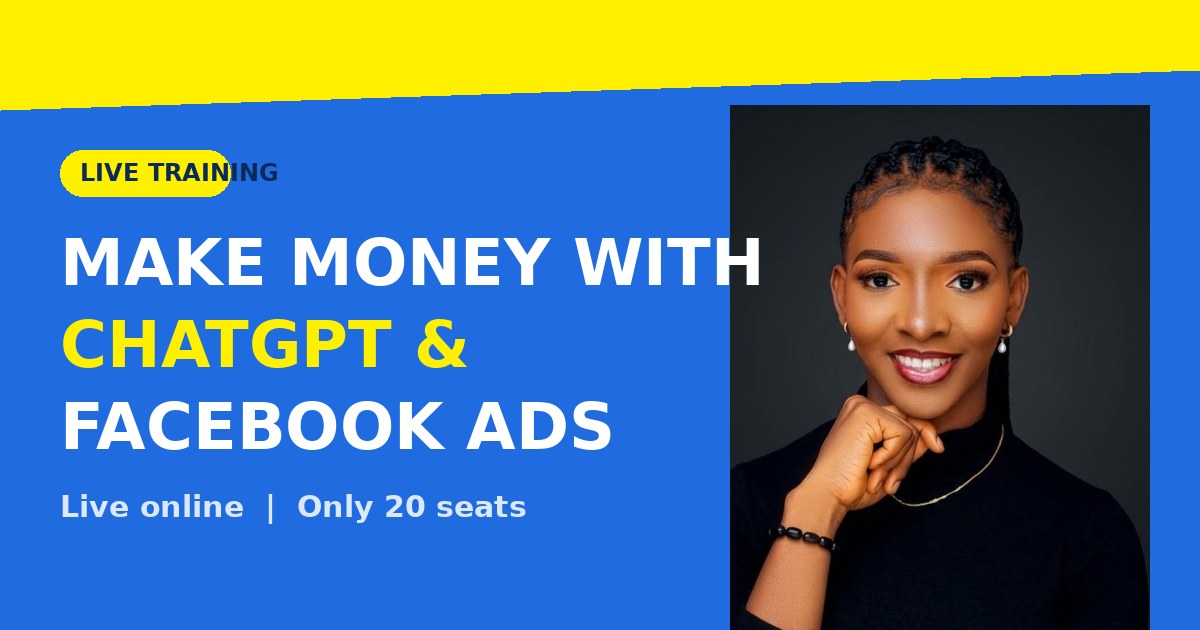
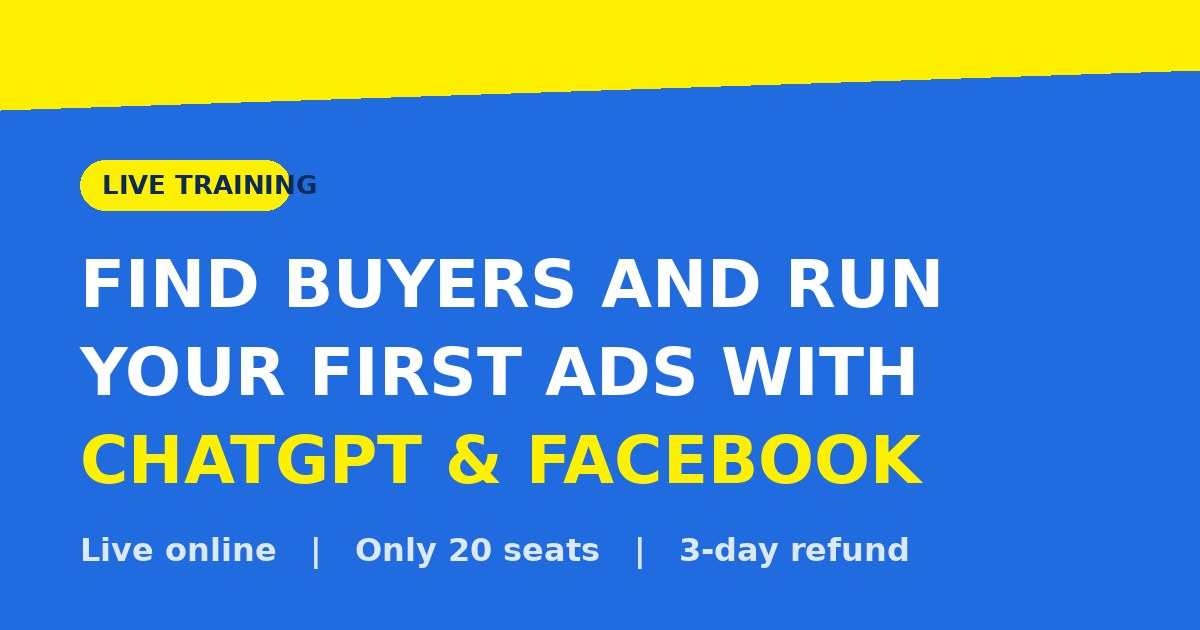
Add files via upload

diff --git a/index.html b/index.html
@@ -219,6 +219,13 @@ footer a{color:#cfe0ff}
 .refundbox{border:2px dashed var(--blue);border-radius:16px;padding:14px 16px;margin-top:16px;text-align:left;font-size:14.5px;color:var(--ink);background:#f7faff}
 .refundbox b{color:var(--blue)}
 .trustline{font-size:13.5px;color:var(--muted);margin:14px 0 0}
+
+.chips{display:flex;flex-wrap:wrap;justify-content:center;gap:10px;margin:26px 0 4px}
+.chips span{background:#fff;border:2px solid var(--navy);color:var(--navy);font-weight:800;font-size:13.5px;letter-spacing:.02em;padding:9px 16px;border-radius:999px;box-shadow:4px 4px 0 var(--yellow);font-family:"Plus Jakarta Sans",Inter,sans-serif}
+.factpanel{display:grid;grid-template-columns:1fr 1fr;gap:14px;max-width:460px;margin:0 auto}
+.fact{background:var(--navy);color:#fff;border-radius:20px;padding:22px 16px;text-align:center;box-shadow:6px 6px 0 var(--yellow)}
+.fact b{display:block;font-family:"Plus Jakarta Sans",Inter,sans-serif;font-weight:800;font-size:clamp(26px,7vw,34px);line-height:1.1;color:var(--yellow)}
+.fact span{display:block;font-size:14px;margin-top:6px;color:#dbe6ff;line-height:1.3}
 .hide{display:none!important}
 .todo{background:#fff3b0;color:#0B2A5B!important;outline:1px dashed #b58900;padding:2px 6px;border-radius:4px}
 </style>
@@ -233,12 +240,7 @@ footer a{color:#cfe0ff}
     <p class="small">In this live training, I will teach you ...</p>
     <h1>How to find buyers and get your first <span class="hl">$1,000</span> in sales using <span class="bl">ChatGPT</span> and <span class="bl">Facebook Ads</span></h1>
     <p class="sub">You don't need to be a tech expert. You don't need a shop. You don't need thousands of followers. You need a clear offer, the right audience and a method you can follow.</p>
-    <p class="watch">Watch this video to the end to see how</p>
-    <div class="video" id="video" role="button" aria-label="Play video">
-      <img id="poster" class="hide" alt="">
-      <div class="ph" id="vph">Add your video poster image (img/poster.jpg) and YouTube link in CONFIG</div>
-      <div class="play"></div>
-    </div>
+    <div class="chips"><span>Live session</span><span>Pay in ₦ or $</span><span>Beginner friendly</span></div>
     <div class="cta-row"><a class="cta" data-cta href="#">Show me how to get started</a></div>
     <p class="trustline" id="capTxt"></p>
   </div>
@@ -317,10 +319,11 @@ footer a{color:#cfe0ff}
 <section class="softsec intro">
   <div class="wrap">
     <h2 class="title">Introducing the<br><span class="hl">Live Ads Training</span></h2>
-    <div class="portrait">
-      <img id="portrait" class="hide" alt="Your trainer">
-      <div class="ph" id="pph">Add trainer photo (img/trainer.jpg)</div>
-      <div class="badge hide" id="badge"><b id="hostName"></b><span id="hostRole"></span></div>
+    <div class="factpanel">
+      <div class="fact"><b>LIVE</b><span>Online training session</span></div>
+      <div class="fact"><b id="factSeats">20</b><span>Seats only</span></div>
+      <div class="fact"><b>3 days</b><span>Refund window</span></div>
+      <div class="fact"><b>₦ or $</b><span>Pay in naira or USD</span></div>
     </div>
     <p class="center" style="margin-top:26px" id="introText"></p>
     <div class="cta-row"><a class="cta" data-cta href="#">Join the training now</a></div>
@@ -519,11 +522,6 @@ var CONFIG = {
   seatCap: 20,
   seatsTaken: 0,
   whatsapp: "234XXXXXXXXXX",
-  videoEmbed: "",                       // e.g. https://www.youtube.com/embed/VIDEO_ID
-  videoPoster: "img/poster.jpg",        // optional poster image
-  trainerPhoto: "img/trainer.jpg",      // optional portrait
-  hostName: "",                        // optional: trainer name for the photo badge
-  hostRole: "",                        // optional: short role line under the name
   pixelId: "",
   stat: { value: "", caption: "" },     // e.g. value "1,000+", caption "people trained". Leave value empty to hide
   refund: "Not satisfied? Request a refund within 3 days of paying and your money will be returned. Just message us on WhatsApp with your name and payment receipt.",
@@ -582,18 +580,8 @@ var CONFIG = {
   // month pill
   var ms=["Jan","Feb","Mar","Apr","May","Jun","Jul","Aug","Sep","Oct","Nov","Dec"];$("nowMonth").textContent=ms[new Date().getMonth()];
 
-  $("hostName").textContent=C.hostName;$("hostRole").textContent=C.hostRole;if(C.hostName)$("badge").classList.remove("hide");$("footBrand").textContent=(C.brand?C.brand+". ":"")+"All rights reserved.";$("introText").textContent=C.introText;if(C.story&&C.story.length){$("storyBox").classList.remove("hide");$("storyHead").textContent=C.storyHeading||"My story";$("storyText").innerHTML=C.story.map(function(p,i){return "<p"+(i===0?' class="lead"':"")+">"+esc(p)+"</p>"}).join("")}if(C.sessionWhen){$("whenStep").textContent="Join the live session: "+C.sessionWhen+". Come ready with your product or idea.";C.includes[0]="Live online training session ("+C.sessionWhen+")"}
+  $("factSeats").textContent=C.seatCap;$("footBrand").textContent=(C.brand?C.brand+". ":"")+"All rights reserved.";$("introText").textContent=C.introText;if(C.story&&C.story.length){$("storyBox").classList.remove("hide");$("storyHead").textContent=C.storyHeading||"My story";$("storyText").innerHTML=C.story.map(function(p,i){return "<p"+(i===0?' class="lead"':"")+">"+esc(p)+"</p>"}).join("")}if(C.sessionWhen){$("whenStep").textContent="Join the live session: "+C.sessionWhen+". Come ready with your product or idea.";C.includes[0]="Live online training session ("+C.sessionWhen+")"}
   $("wa").href=(C.whatsapp&&C.whatsapp.indexOf("X")<0)?"https://wa.me/"+C.whatsapp:"#";$("refund2").textContent=C.refund;$("trustRefund").textContent=C.refund;$("capTxt").textContent="Live online training \u00B7 Only "+C.seatCap+" seats \u00B7 Clear refund policy";
-
-  // images with graceful fallback
-  function tryImg(el,src,ph){var im=new Image();im.onload=function(){el.src=src;el.classList.remove("hide");if(ph)ph.classList.add("hide")};im.src=src}
-  tryImg($("poster"),C.videoPoster,$("vph"));tryImg($("portrait"),C.trainerPhoto,$("pph"));
-
-  // video
-  $("video").addEventListener("click",function(){
-    if(!C.videoEmbed)return;
-    this.innerHTML='<iframe src="'+C.videoEmbed+(C.videoEmbed.indexOf("?")>-1?"&":"?")+'autoplay=1&rel=0" allow="autoplay; encrypted-media; fullscreen" allowfullscreen></iframe>';
-  });
 
   // results
   var rs=$("results");
